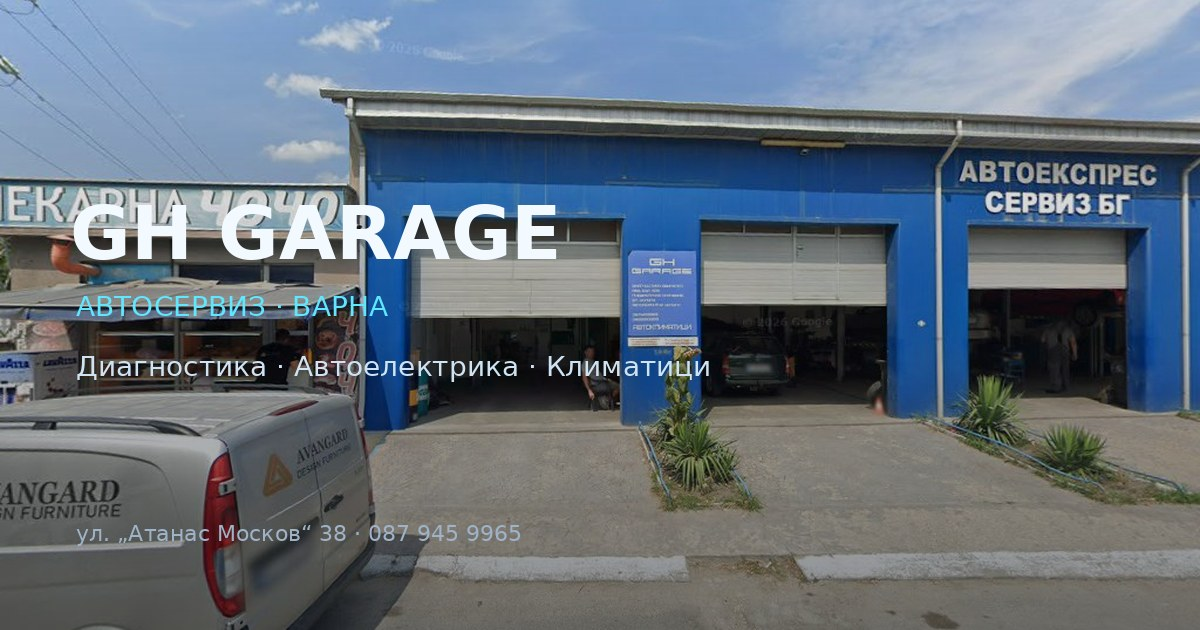
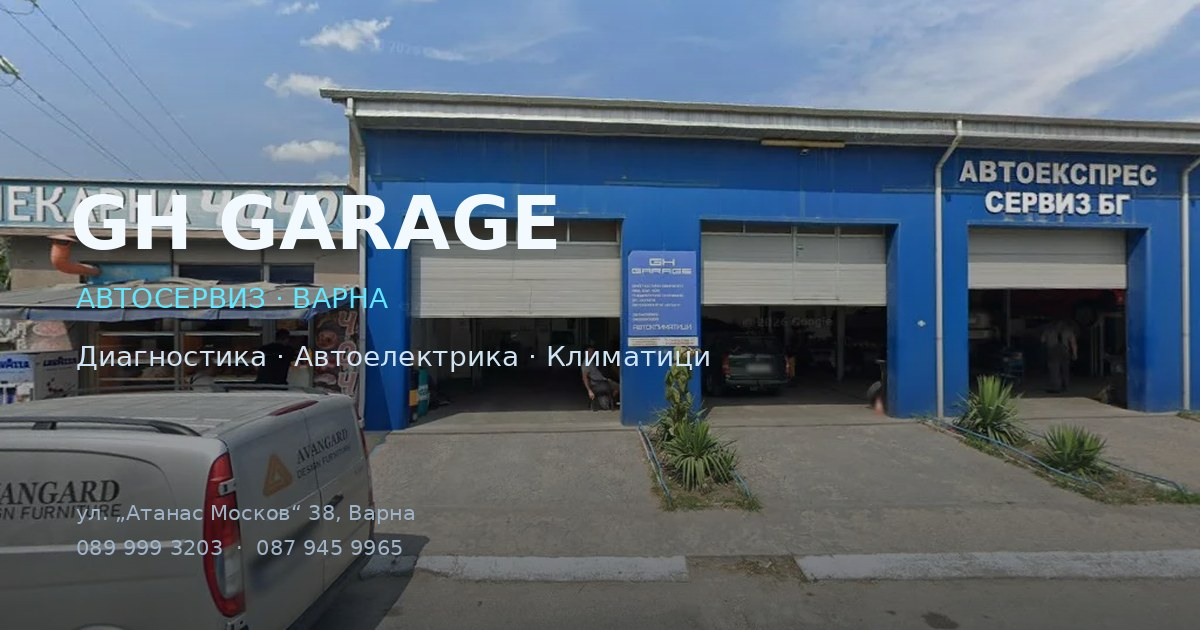
Update main phone number and keep secondary number

diff --git a/index.html b/index.html
@@ -5,7 +5,7 @@
     <meta name="viewport" content="width=device-width, initial-scale=1.0">
     <meta name="theme-color" content="#050d15">
     <title>GH Garage — автосервиз във Варна | Диагностика, автоелектрика, климатици</title>
-    <meta name="description" content="GH Garage — специализиран автосервиз във Варна. Компютърна диагностика, автоелектрика, автоклиматици, въздушно окачване и леки механични ремонти. ул. „Атанас Москов“ 38. Тел: 087 945 9965.">
+    <meta name="description" content="GH Garage — специализиран автосервиз във Варна. Компютърна диагностика, автоелектрика, автоклиматици, въздушно окачване и леки механични ремонти. ул. „Атанас Москов“ 38. Тел: 089 999 3203.">
     <meta name="robots" content="index, follow, max-image-preview:large">
     <link rel="icon" href="assets/favicon.svg" type="image/svg+xml">
     <link rel="apple-touch-icon" href="assets/apple-touch-icon.png">
@@ -14,7 +14,7 @@
     <meta property="og:site_name" content="GH Garage">
     <meta property="og:locale" content="bg_BG">
     <meta property="og:title" content="GH Garage — автосервиз във Варна">
-    <meta property="og:description" content="Диагностика, автоелектрика, автоклиматици, въздушно окачване и леки механични ремонти. ул. „Атанас Москов“ 38, Варна. Тел: 087 945 9965.">
+    <meta property="og:description" content="Диагностика, автоелектрика, автоклиматици, въздушно окачване и леки механични ремонти. ул. „Атанас Москов“ 38, Варна. Тел: 089 999 3203.">
     <meta property="og:url" content="https://ghgarage.github.io/GHGarage-Page/">
     <meta property="og:image" content="https://ghgarage.github.io/GHGarage-Page/assets/og-image.jpg">
     <meta property="og:image:width" content="1200">
@@ -738,6 +738,8 @@
         }
         .contact-item .value a:hover { color: var(--cyan); }
         .contact-item .sub { color: var(--muted); font-size: 13px; font-weight: 400; margin-top: 3px; }
+        .contact-item .sub a { color: var(--muted); border-bottom: 1px solid rgba(94, 231, 255, 0.2); }
+        .contact-item .sub a:hover { color: var(--cyan); }
         .contact-actions { display: flex; flex-wrap: wrap; gap: 10px; margin-top: 22px; }
 
         .map-shell {
@@ -983,11 +985,11 @@
                 <a href="#gallery">Галерия</a>
                 <a href="#process">Процес</a>
                 <a href="#contact">Контакти</a>
-                <a class="nav-phone" href="tel:+359879459965">
+                <a class="nav-phone" href="tel:+359899993203">
                     <svg width="15" height="15" viewBox="0 0 24 24" fill="none" stroke="currentColor" stroke-width="2" stroke-linecap="round" stroke-linejoin="round"><path d="M22 16.92v3a2 2 0 0 1-2.18 2 19.8 19.8 0 0 1-8.63-3.07 19.5 19.5 0 0 1-6-6A19.8 19.8 0 0 1 2.12 4.18 2 2 0 0 1 4.11 2h3a2 2 0 0 1 2 1.72c.13.96.36 1.9.7 2.81a2 2 0 0 1-.45 2.11L8.09 9.91a16 16 0 0 0 6 6l1.27-1.27a2 2 0 0 1 2.11-.45c.91.34 1.85.57 2.81.7A2 2 0 0 1 22 16.92z"/></svg>
-                    087 945 9965
+                    089 999 3203
                 </a>
-                <a class="btn btn-primary btn-sm nav-cta" href="tel:+359879459965">Запази час</a>
+                <a class="btn btn-primary btn-sm nav-cta" href="tel:+359899993203">Запази час</a>
             </div>
         </div>
     </nav>
@@ -1001,7 +1003,7 @@
                         <h1>Точна диагностика. <span class="hl">Коректна работа.</span></h1>
                         <p class="hero-sub">GH Garage се занимава с компютърна диагностика, автоелектрика, автоклиматици и въздушно окачване. Без гадаене — откриваме причината и ви казваме какво е нужно.</p>
                         <div class="hero-actions">
-                            <a class="btn btn-primary" href="tel:+359879459965">
+                            <a class="btn btn-primary" href="tel:+359899993203">
                                 <svg width="16" height="16" viewBox="0 0 24 24" fill="none" stroke="currentColor" stroke-width="2" stroke-linecap="round" stroke-linejoin="round"><path d="M22 16.92v3a2 2 0 0 1-2.18 2 19.8 19.8 0 0 1-8.63-3.07 19.5 19.5 0 0 1-6-6A19.8 19.8 0 0 1 2.12 4.18 2 2 0 0 1 4.11 2h3a2 2 0 0 1 2 1.72c.13.96.36 1.9.7 2.81a2 2 0 0 1-.45 2.11L8.09 9.91a16 16 0 0 0 6 6l1.27-1.27a2 2 0 0 1 2.11-.45c.91.34 1.85.57 2.81.7A2 2 0 0 1 22 16.92z"/></svg>
                                 Запази час
                             </a>
@@ -1100,7 +1102,7 @@
                             <h3>Не сте сигурни какъв е проблемът?</h3>
                             <p>Опишете симптома по телефона. Ще ви кажем дали можем да помогнем и кога да дойдете.</p>
                         </div>
-                        <a class="btn" href="tel:+359879459965">087 945 9965</a>
+                        <a class="btn" href="tel:+359899993203">089 999 3203</a>
                     </article>
                 </div>
 
@@ -1193,7 +1195,7 @@
                     </article>
                 </div>
                 <div class="process-cta reveal">
-                    <a class="btn btn-primary" href="tel:+359879459965">Запази час на 087 945 9965</a>
+                    <a class="btn btn-primary" href="tel:+359899993203">Запази час на 089 999 3203</a>
                 </div>
             </div>
         </section>
@@ -1225,8 +1227,8 @@
                             </span>
                             <div>
                                 <div class="label">Телефон</div>
-                                <div class="value"><a href="tel:+359879459965">087 945 9965</a></div>
-                                <div class="sub">Обадете се, за да запазите час</div>
+                                <div class="value"><a href="tel:+359899993203">089 999 3203</a></div>
+                                <div class="sub">Друг номер: <a href="tel:+359879459965">087 945 9965</a></div>
                             </div>
                         </div>
 
@@ -1252,7 +1254,7 @@
                         </div>
 
                         <div class="contact-actions">
-                            <a class="btn btn-primary" href="tel:+359879459965">Обади се</a>
+                            <a class="btn btn-primary" href="tel:+359899993203">Обади се</a>
                             <a class="btn btn-ghost" href="https://www.facebook.com/people/GH-Garage/100066629180747/" target="_blank" rel="noopener">Facebook</a>
                         </div>
                     </div>
@@ -1299,6 +1301,7 @@
                 <div>
                     <div class="footer-title">Контакти</div>
                     <ul class="footer-links">
+                        <li><a href="tel:+359899993203">089 999 3203</a></li>
                         <li><a href="tel:+359879459965">087 945 9965</a></li>
                         <li><a href="mailto:icoatanasov@mail.bg">icoatanasov@mail.bg</a></li>
                         <li><a href="https://www.google.com/maps?cid=15963767772826249730" target="_blank" rel="noopener">ул. „Атанас Москов“ 38, Варна</a></li>
@@ -1315,7 +1318,7 @@
     </footer>
 
     <div class="mobile-bar" aria-label="Бързи контакти">
-        <a class="btn btn-primary" href="tel:+359879459965">
+        <a class="btn btn-primary" href="tel:+359899993203">
             <svg width="16" height="16" viewBox="0 0 24 24" fill="none" stroke="currentColor" stroke-width="2" stroke-linecap="round" stroke-linejoin="round"><path d="M22 16.92v3a2 2 0 0 1-2.18 2 19.8 19.8 0 0 1-8.63-3.07 19.5 19.5 0 0 1-6-6A19.8 19.8 0 0 1 2.12 4.18 2 2 0 0 1 4.11 2h3a2 2 0 0 1 2 1.72c.13.96.36 1.9.7 2.81a2 2 0 0 1-.45 2.11L8.09 9.91a16 16 0 0 0 6 6l1.27-1.27a2 2 0 0 1 2.11-.45c.91.34 1.85.57 2.81.7A2 2 0 0 1 22 16.92z"/></svg>
             Обади се
         </a>
@@ -1333,7 +1336,11 @@
         "description": "Специализиран автосервиз във Варна: компютърна диагностика, автоелектрика, автоклиматици, въздушно окачване и леки механични ремонти.",
         "url": "https://ghgarage.github.io/GHGarage-Page/",
         "image": "https://ghgarage.github.io/GHGarage-Page/assets/og-image.jpg",
-        "telephone": "+359879459965",
+        "telephone": "+359899993203",
+        "contactPoint": [
+            { "@type": "ContactPoint", "telephone": "+359899993203", "contactType": "customer service" },
+            { "@type": "ContactPoint", "telephone": "+359879459965", "contactType": "customer service" }
+        ],
         "email": "icoatanasov@mail.bg",
         "address": {
             "@type": "PostalAddress",

diff --git a/README.md b/README.md
@@ -11,7 +11,7 @@ auto electrics, air conditioning, air suspension and light mechanical work.
 
 - **Name:** GH GARAGE
 - **Address:** ул. „Атанас Москов“ 38, 9009 Варна (кв. Владислав Варненчик)
-- **Phone:** 087 945 9965
+- **Phone:** 089 999 3203 (main); 087 945 9965 (secondary)
 - **Email:** icoatanasov@mail.bg
 - **Google Maps:** https://www.google.com/maps?cid=15963767772826249730
 - **Facebook:** https://www.facebook.com/people/GH-Garage/100066629180747/
